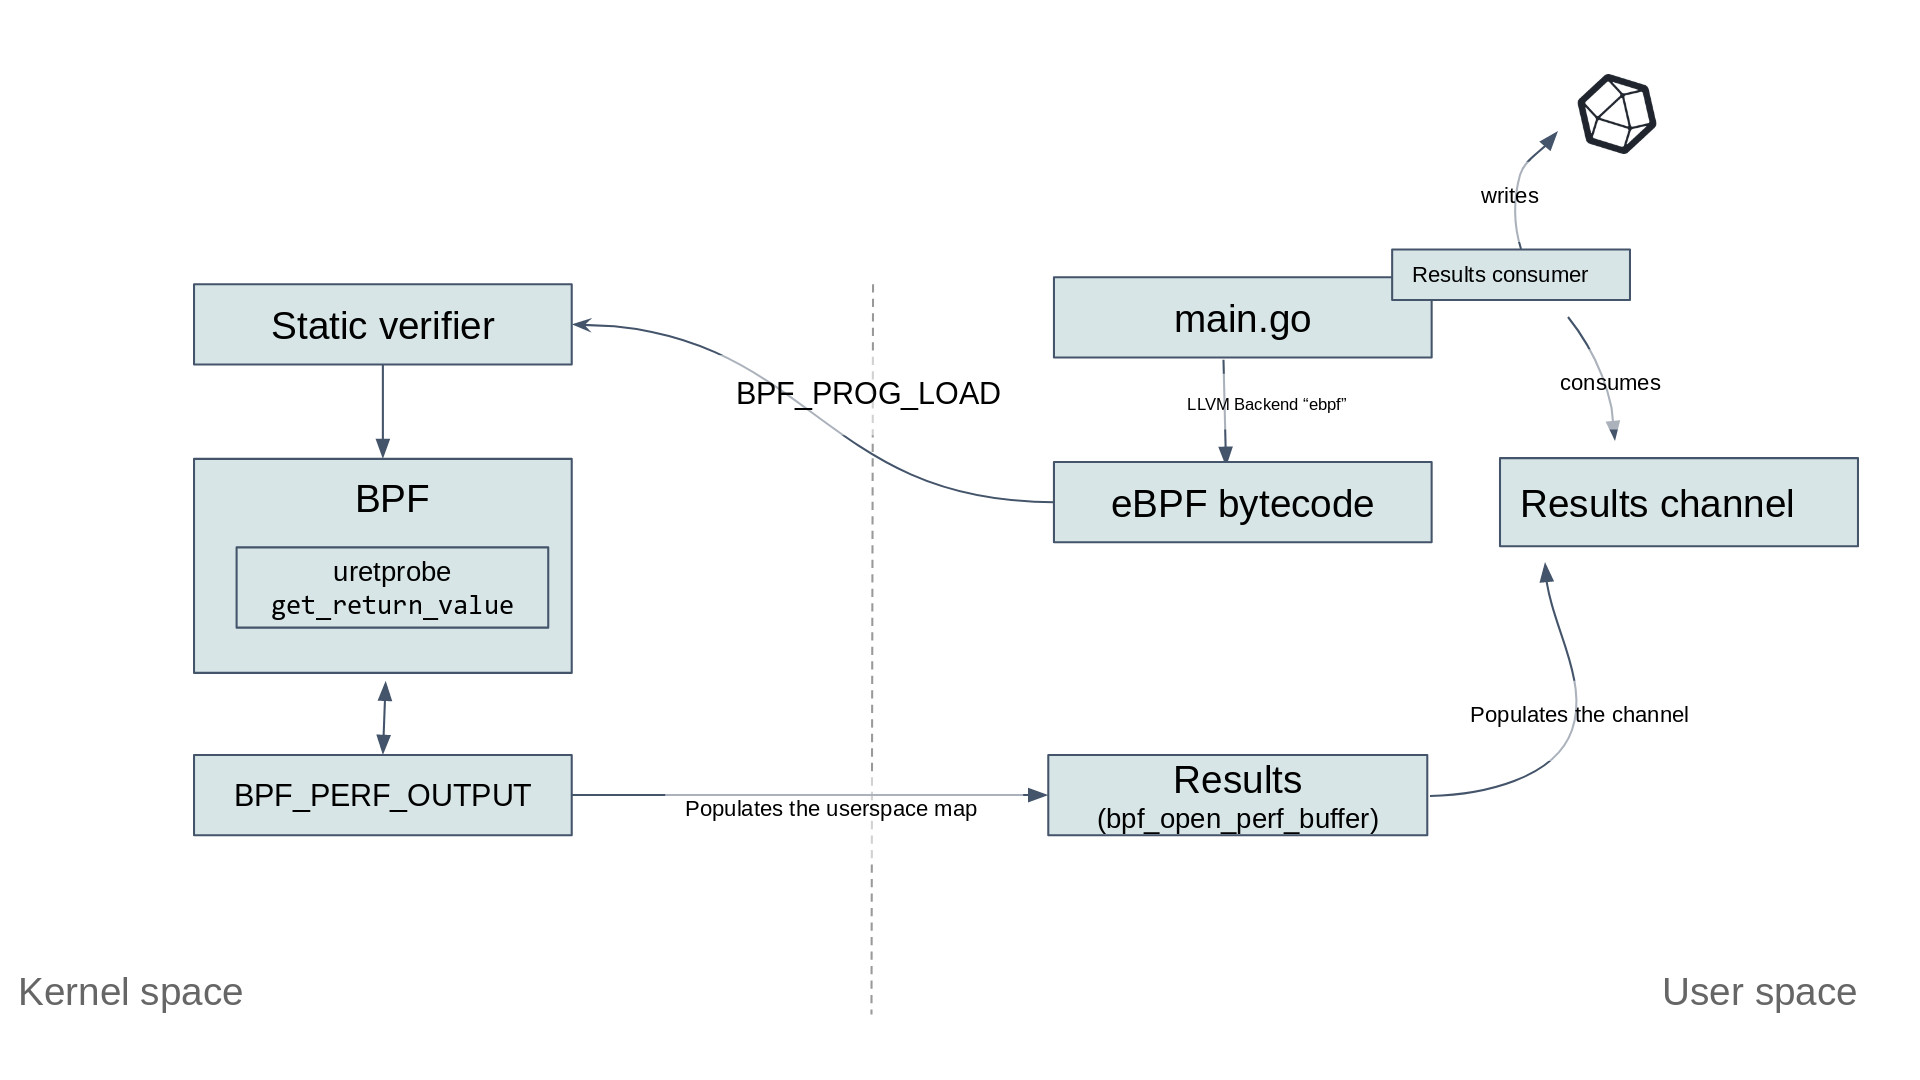
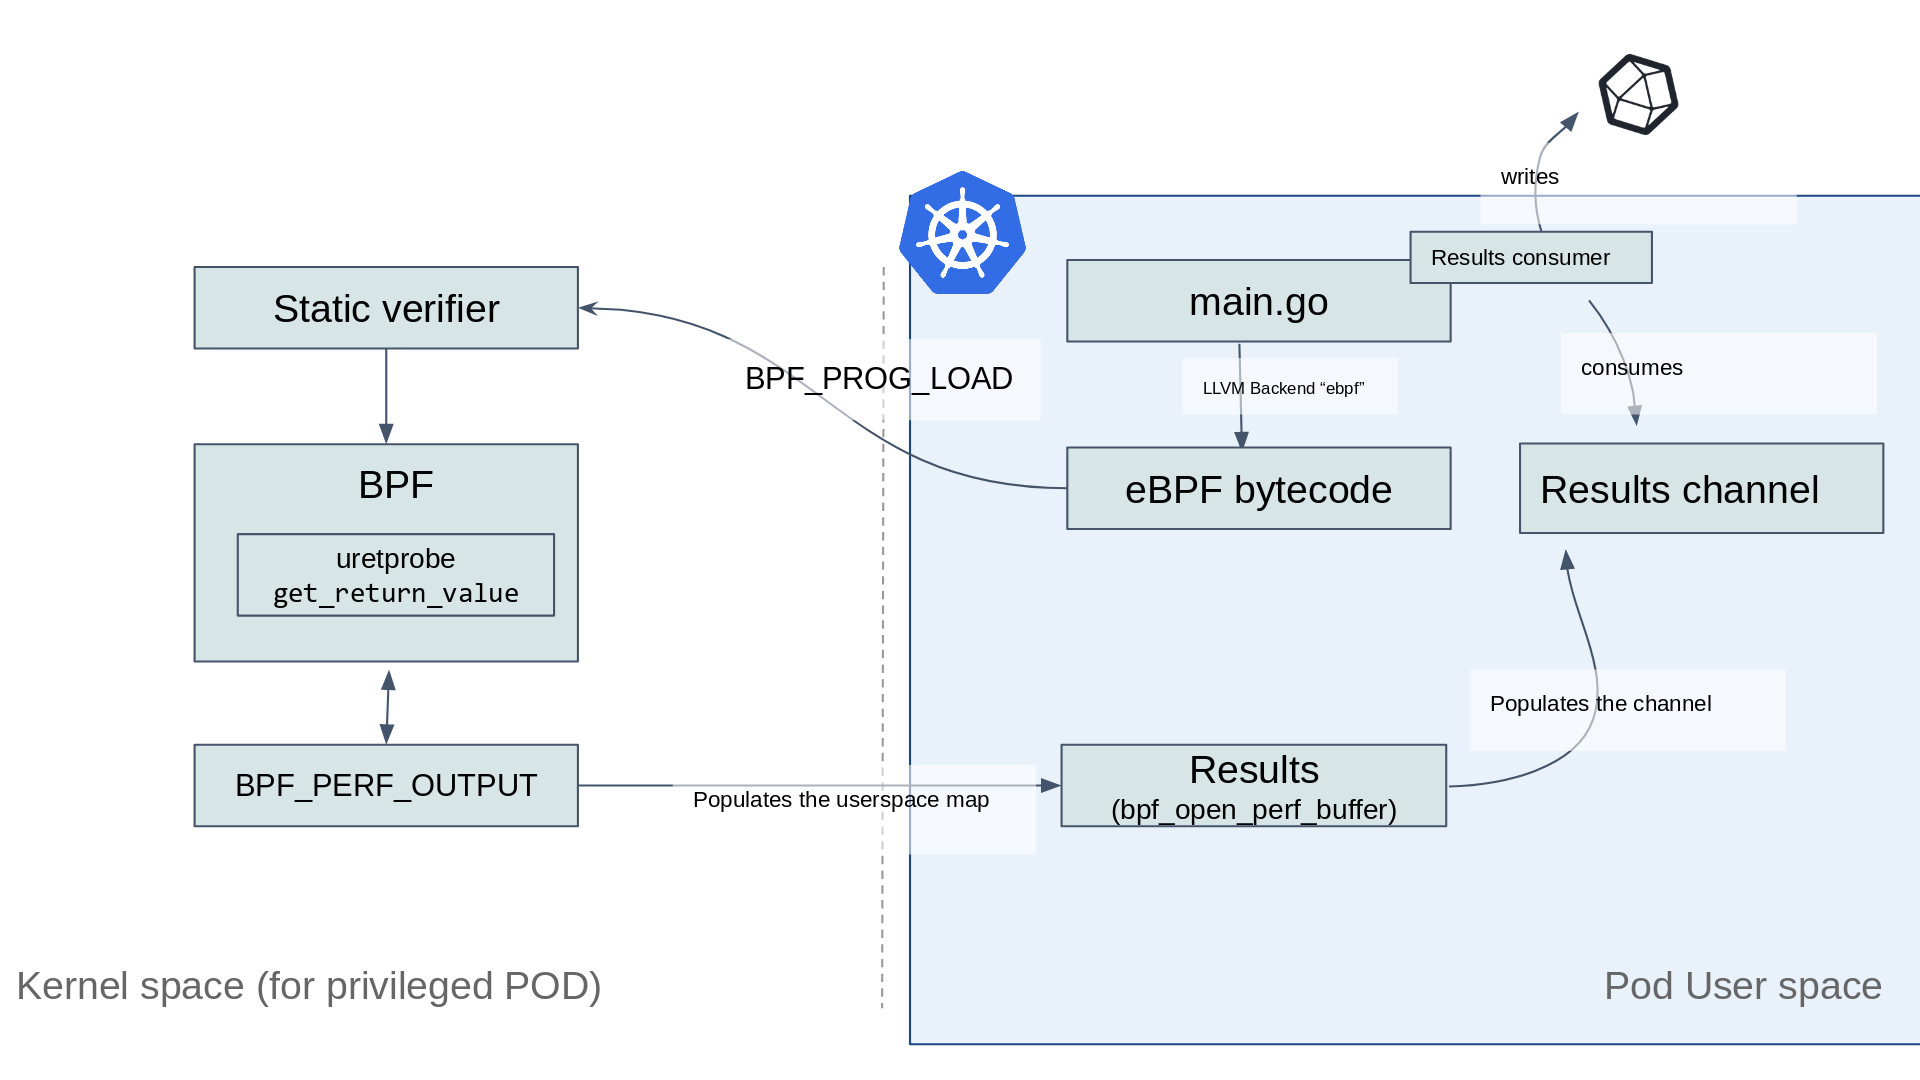
Fix the deployment to match readline lib

diff --git a/main.go b/main.go
@@ -65,6 +65,9 @@ func main() {
 	// URETPROBE_BINARY is the path of the binary (or library) we want to analyze
 	binaryName := os.Getenv("URETPROBE_BINARY")
 
+	// Get the current node hostname
+	hostname := os.Getenv("HOSTNAME")
+
 	if len(mdb) == 0 {
 		log.Fatalf("MONITOR_DATABASE environment variable missing")
 	}
@@ -151,7 +154,7 @@ func main() {
 			comm := string(event.Str[:bytes.IndexByte(event.Str[:], 0)])
 
 			// Prepare the tags for InfluxDB
-			tags := map[string]string{"uprobe": "readline", "pid": fmt.Sprintf("%d", event.Pid)}
+			tags := map[string]string{"uprobe": "readline", "pid": fmt.Sprintf("%d", event.Pid), "hostname": hostname}
 
 			// Prepare the fields for InfluxDB
 			fields := map[string]interface{}{

diff --git a/README.md b/README.md
@@ -11,5 +11,29 @@ This example is based on the [bash_readline.go](https://github.com/iovisor/gobpf
 
 See [main.go](main.go) for more details, the source code is heavily commented so that you can understand it.
 
+## Usage
+
+This example was designed to be executed in a Kubernetes cluster so that you can visualize all the bash commands
+executed in our nodes.
+
+To deploy it in your cluster.
+
+```bash
+// Clone the repo and cd into it, then
+$ kubectl create namespace monitoring
+$ kubectl apply -f deploy.yml
+```
+
+Now you can SSH into some of your nodes and start executing commands in a bash prompt.
+
+Once you have this, you will have to reach the chronograf service in the monitoring namespace
+and open it in your browser.
+You can do that using an ingress, a proxy or an SSH tunnel.
+
+Then when you open Chonograf you can import the dashboard in `dashboard.json`.
+
+The dashboard will look like this:
+
+INSERT DASHBOARD IMAGE HERE
 
 
